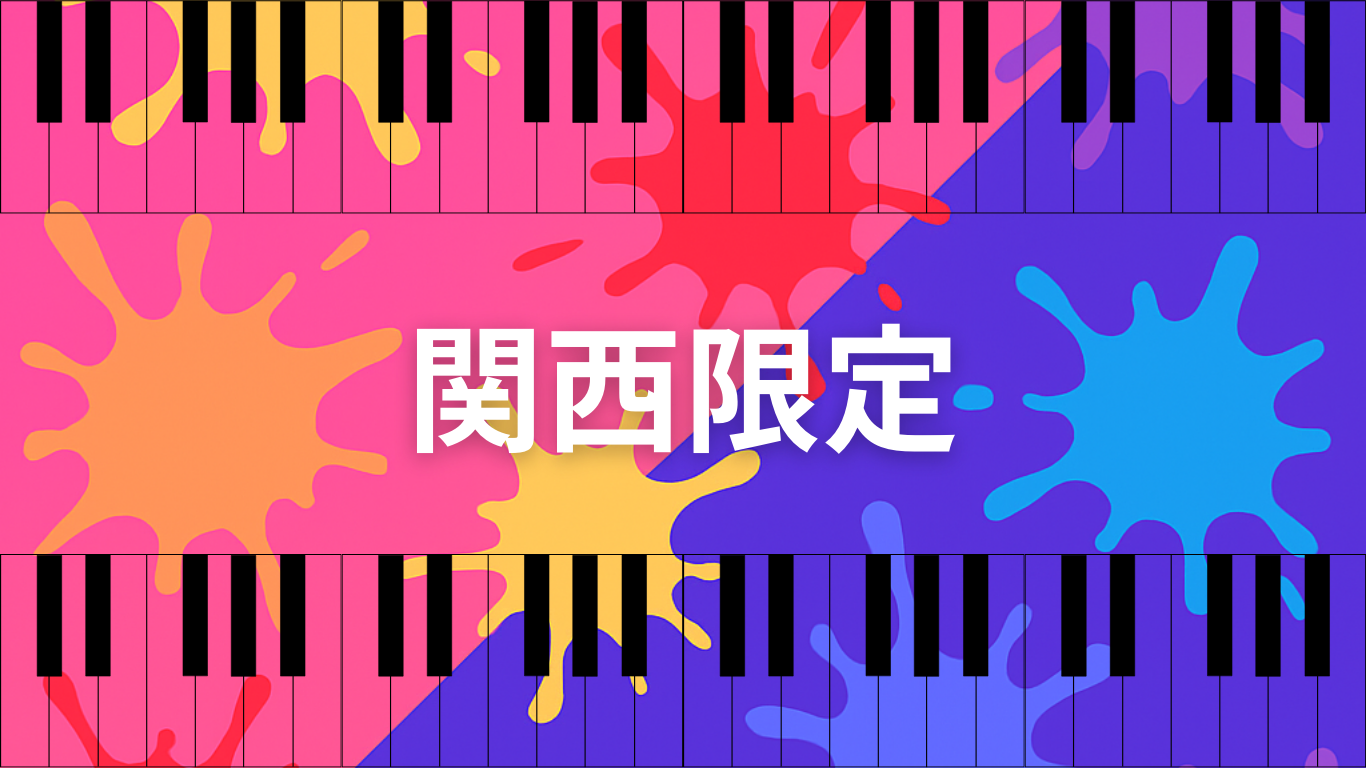
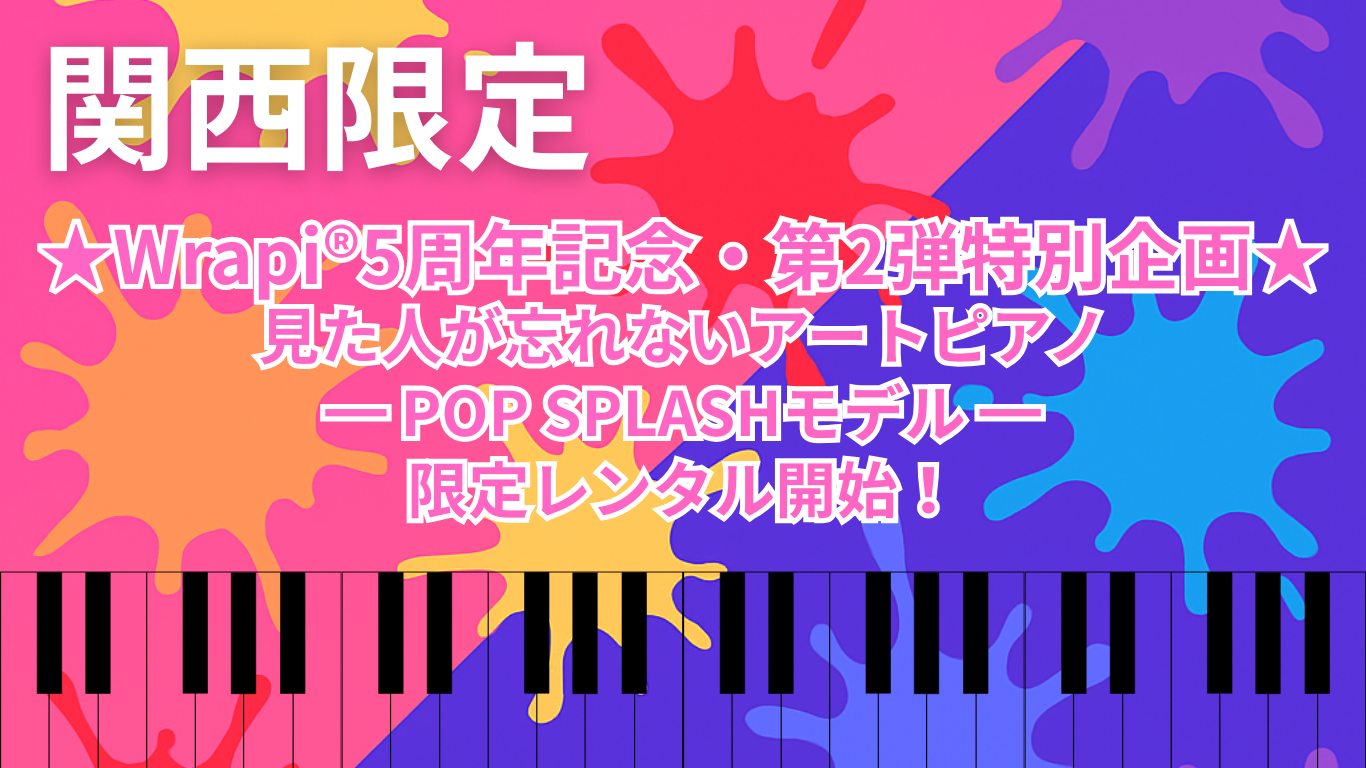
１弾へのリンク

diff --git a/index.html b/index.html
@@ -742,7 +742,6 @@
     tr:nth-child(even) {
       background-color: #fdf2f8;
     }
-    
   </style>
 </head>
 <body>
@@ -755,7 +754,7 @@
   <header class="header py-16 md:py-24 relative">
     <div class="container">
       <div class="absolute header-button">
-        <a href="first-special.html" class="inline-flex items-center px-5 py-2.5 bg-amber-500 hover:bg-amber-600 text-white font-medium rounded-full shadow-lg hover:shadow-xl transform hover:-translate-y-1">
+        <a href="https://keen-praline-bd3851.netlify.app/" class="inline-flex items-center px-5 py-2.5 bg-amber-500 hover:bg-amber-600 text-white font-medium rounded-full shadow-lg hover:shadow-xl transform hover:-translate-y-1">
           <span>Wrapi®5周年記念特別企画第1弾</span>
           <svg class="icon ml-2 h-4 w-4" viewBox="0 0 24 24" stroke-linecap="round" stroke-linejoin="round">
             <path d="M5 12h14M12 5l7 7-7 7"></path>
@@ -780,7 +779,9 @@
         <svg class="icon text-pink-500 mr-2" viewBox="0 0 24 24" stroke-linecap="round" stroke-linejoin="round">
           <path d="M12 3l1.88 5.76h6.12l-4.94 3.6 1.88 5.76-4.94-3.6-4.94 3.6 1.88-5.76-4.94-3.6h6.12z"></path>
         </svg>
-        <h2 class="text-3xl md:text-4xl font-bold text-pink-600">★Wrapi®5周年記念・第2弾特別企画★</h2>
+        <h2 style="font-size: 60px; color: #db2777; font-weight: bold;">
+          ★関西限定★
+        </h2>
         <svg class="icon text-pink-500 ml-2" viewBox="0 0 24 24" stroke-linecap="round" stroke-linejoin="round">
           <path d="M12 3l1.88 5.76h6.12l-4.94 3.6 1.88 5.76-4.94-3.6-4.94 3.6 1.88-5.76-4.94-3.6h6.12z"></path>
         </svg>
@@ -793,9 +794,10 @@
       </h3>
 
       <p class="text-lg text-gray-700 mb-12 max-w-3xl mx-auto">
-        Wrapi®が誕生してから5周年。感謝の気持ちを込めて—<br>
-        イベント・展示・撮影・プロモーションに最適な、超インパクトピアノを「破格」でご用意しました！
+        Wrapi®が関西・滋賀で誕生してから5周年。感謝の気持ちを込めて—<br>
+        イベント・展示・撮影・プロモーションに最適で、<br>超インパクトなレンタルプランを関西限定でご用意しました！
       </p>
+   
 
       <div class="flex flex-col gap-6 mb-10">
         <div class="overflow-hidden rounded-xl border" style="border-color: #d1d5db;">
@@ -854,11 +856,11 @@
               </tr>
               <tr>
                 <td class="border border-pink-200 p-3">対象地域</td>
-                <td class="border border-pink-200 p-3">大阪・兵庫・滋賀・京都・福井・奈良・和歌山（他地域応相談）</td>
+                <td class="border border-pink-200 p-3">関西限定：大阪・兵庫・滋賀・京都・福井・奈良・和歌山（他地域応相談）</td>
               </tr>
               <tr>
                 <td class="border border-pink-200 p-3">料金</td>
-                <td class="border border-pink-200 p-3">通常価格322,300円のところ、,<br><span style="color: red; font-weight: bold; font-size: 1.25em;">5周年特別価格165,000円</span>＋運送代と諸経費。（詳しくはお問合せください）</td>
+                <td class="border border-pink-200 p-3">通常価格293,000円のところ、,<br><span style="color: red; font-weight: bold; font-size: 1.8em;">5周年特別価格150,000円+tax　配送料込</span><br>（詳しくはお問合せください）</td>
               </tr>
               <tr>
                 <td class="border border-pink-200 p-3">セット内容</td>
@@ -873,7 +875,7 @@
         今回のレンタルピアノは「このページをご覧頂いた関西の方限定」のキャンペーンです！<br>
         ご予約や質問は、下記ボタンよりご連絡ください。
       </p>
-
+      
       <a href="#contact" class="inline-flex items-center px-8 py-4 bg-pink-600 text-white font-bold text-xl rounded-full shadow-lg hover:bg-pink-700 transition-all transform hover:-translate-y-1">
         <svg class="icon mr-2" viewBox="0 0 24 24" stroke-linecap="round" stroke-linejoin="round">
           <path d="M12 3l1.88 5.76h6.12l-4.94 3.6 1.88 5.76-4.94-3.6-4.94 3.6 1.88-5.76-4.94-3.6h6.12z"></path>
@@ -1012,7 +1014,7 @@
   <footer class="footer py-8 px-4 relative">
     <div class="container max-w-5xl mx-auto">
       <div class="absolute header-button">
-        <a href="first-special.html" class="inline-flex items-center px-5 py-2.5 bg-amber-500 hover:bg-amber-600 text-white font-medium rounded-full transition-all shadow-lg hover:shadow-xl transform hover:-translate-y-1">
+        <a href="https://keen-praline-bd3851.netlify.app/" class="inline-flex items-center px-5 py-2.5 bg-amber-500 hover:bg-amber-600 text-white font-medium rounded-full transition-all shadow-lg hover:shadow-xl transform hover:-translate-y-1">
           <span>Wrapi®5周年記念特別企画第1弾</span>
           <svg class="icon ml-2 h-4 w-4" viewBox="0 0 24 24" stroke-linecap="round" stroke-linejoin="round">
             <path d="M5 12h14M12 5l7 7-7 7"></path>
